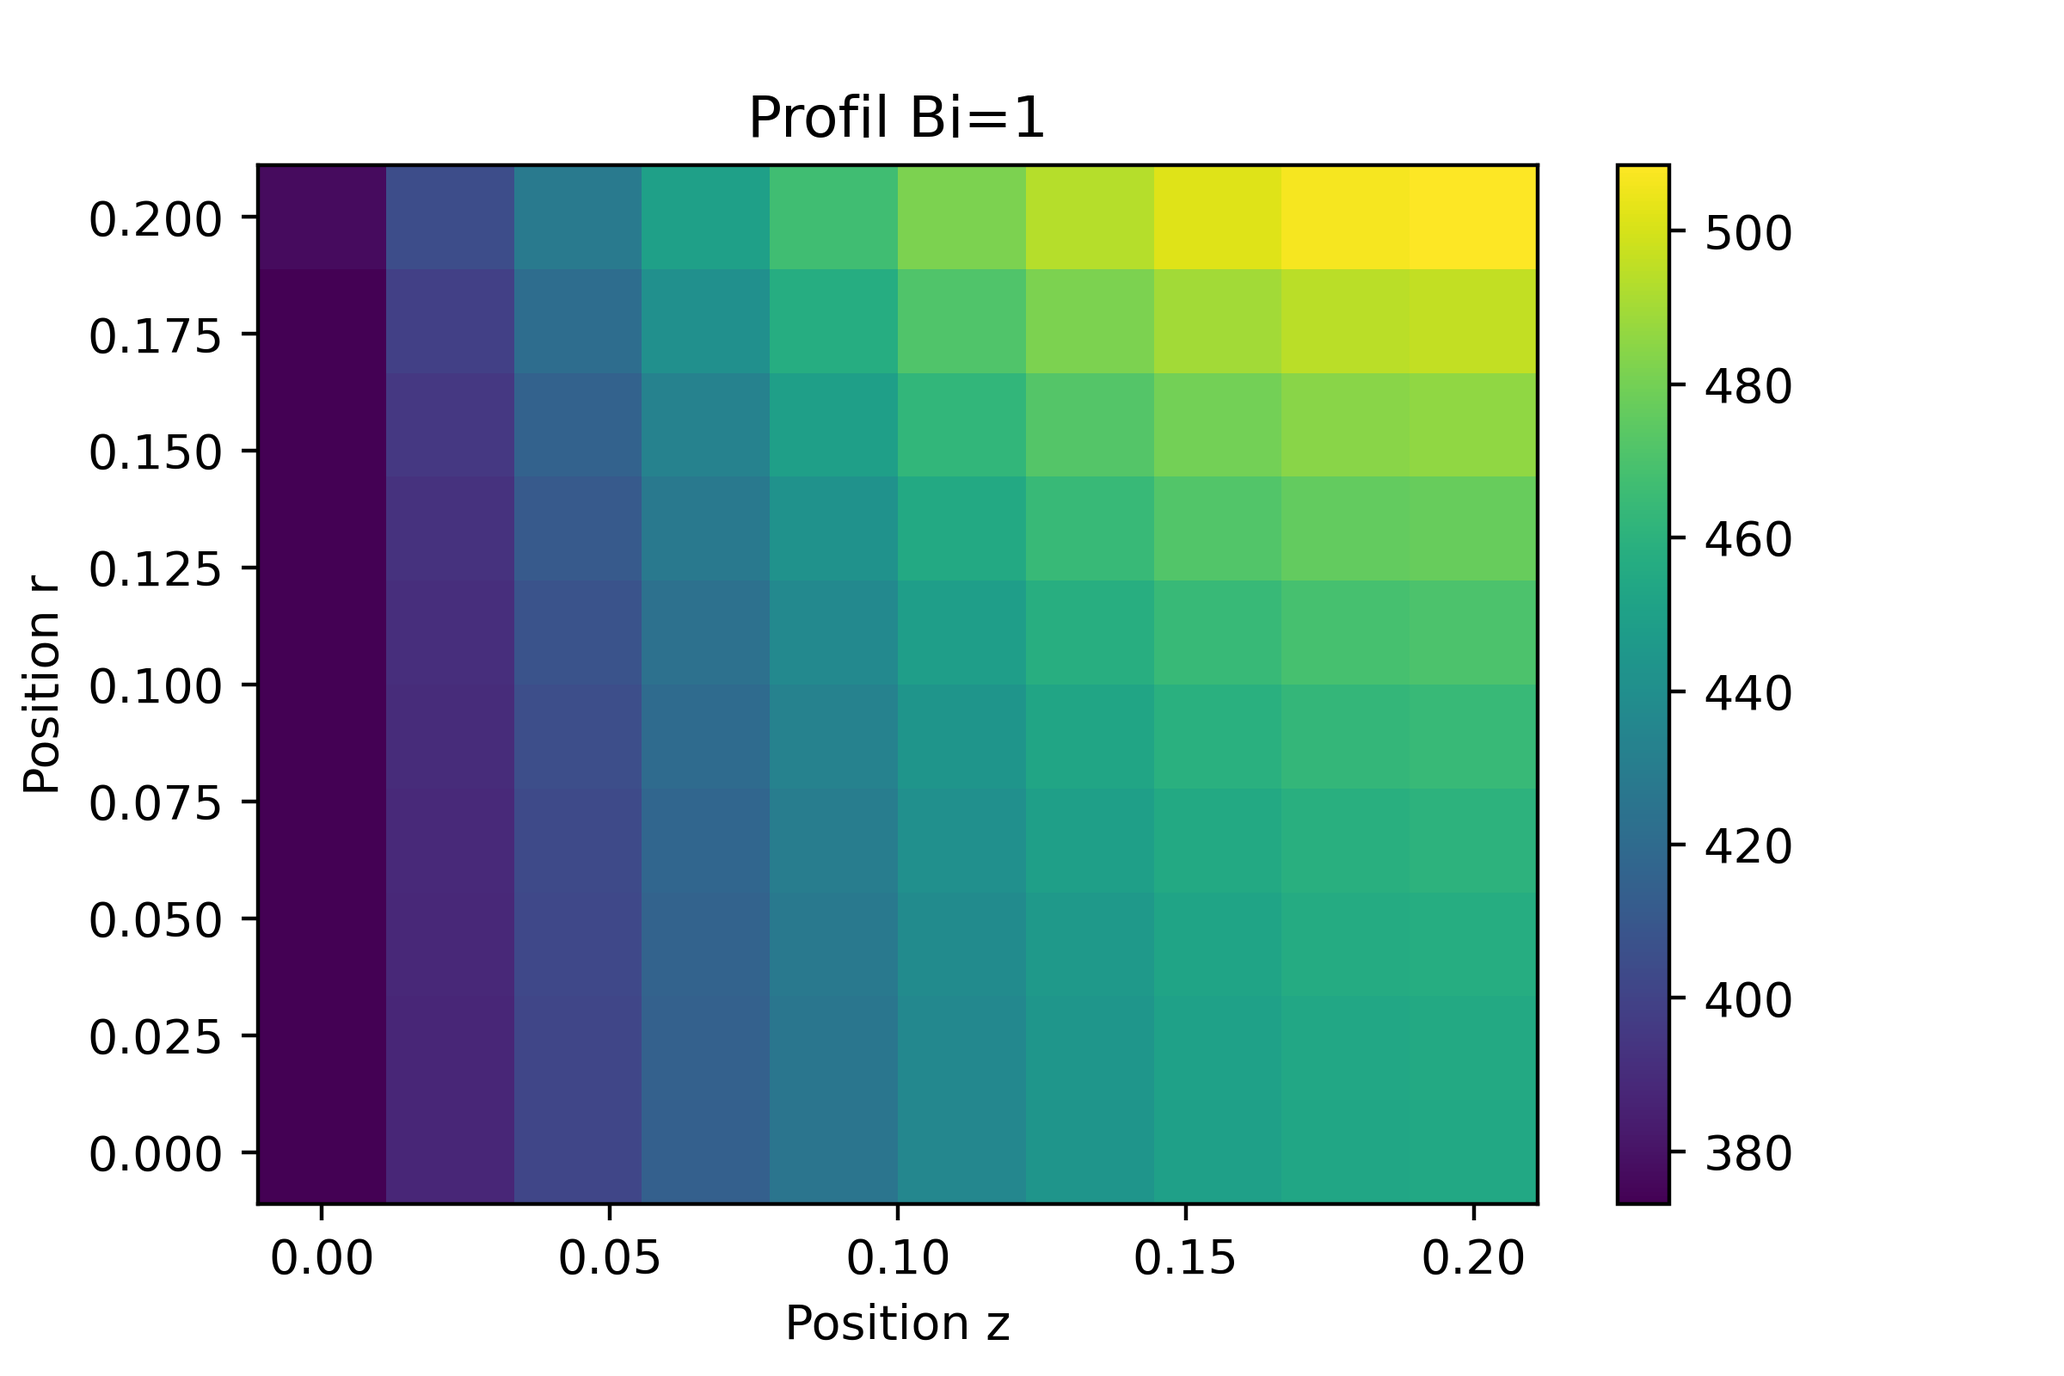
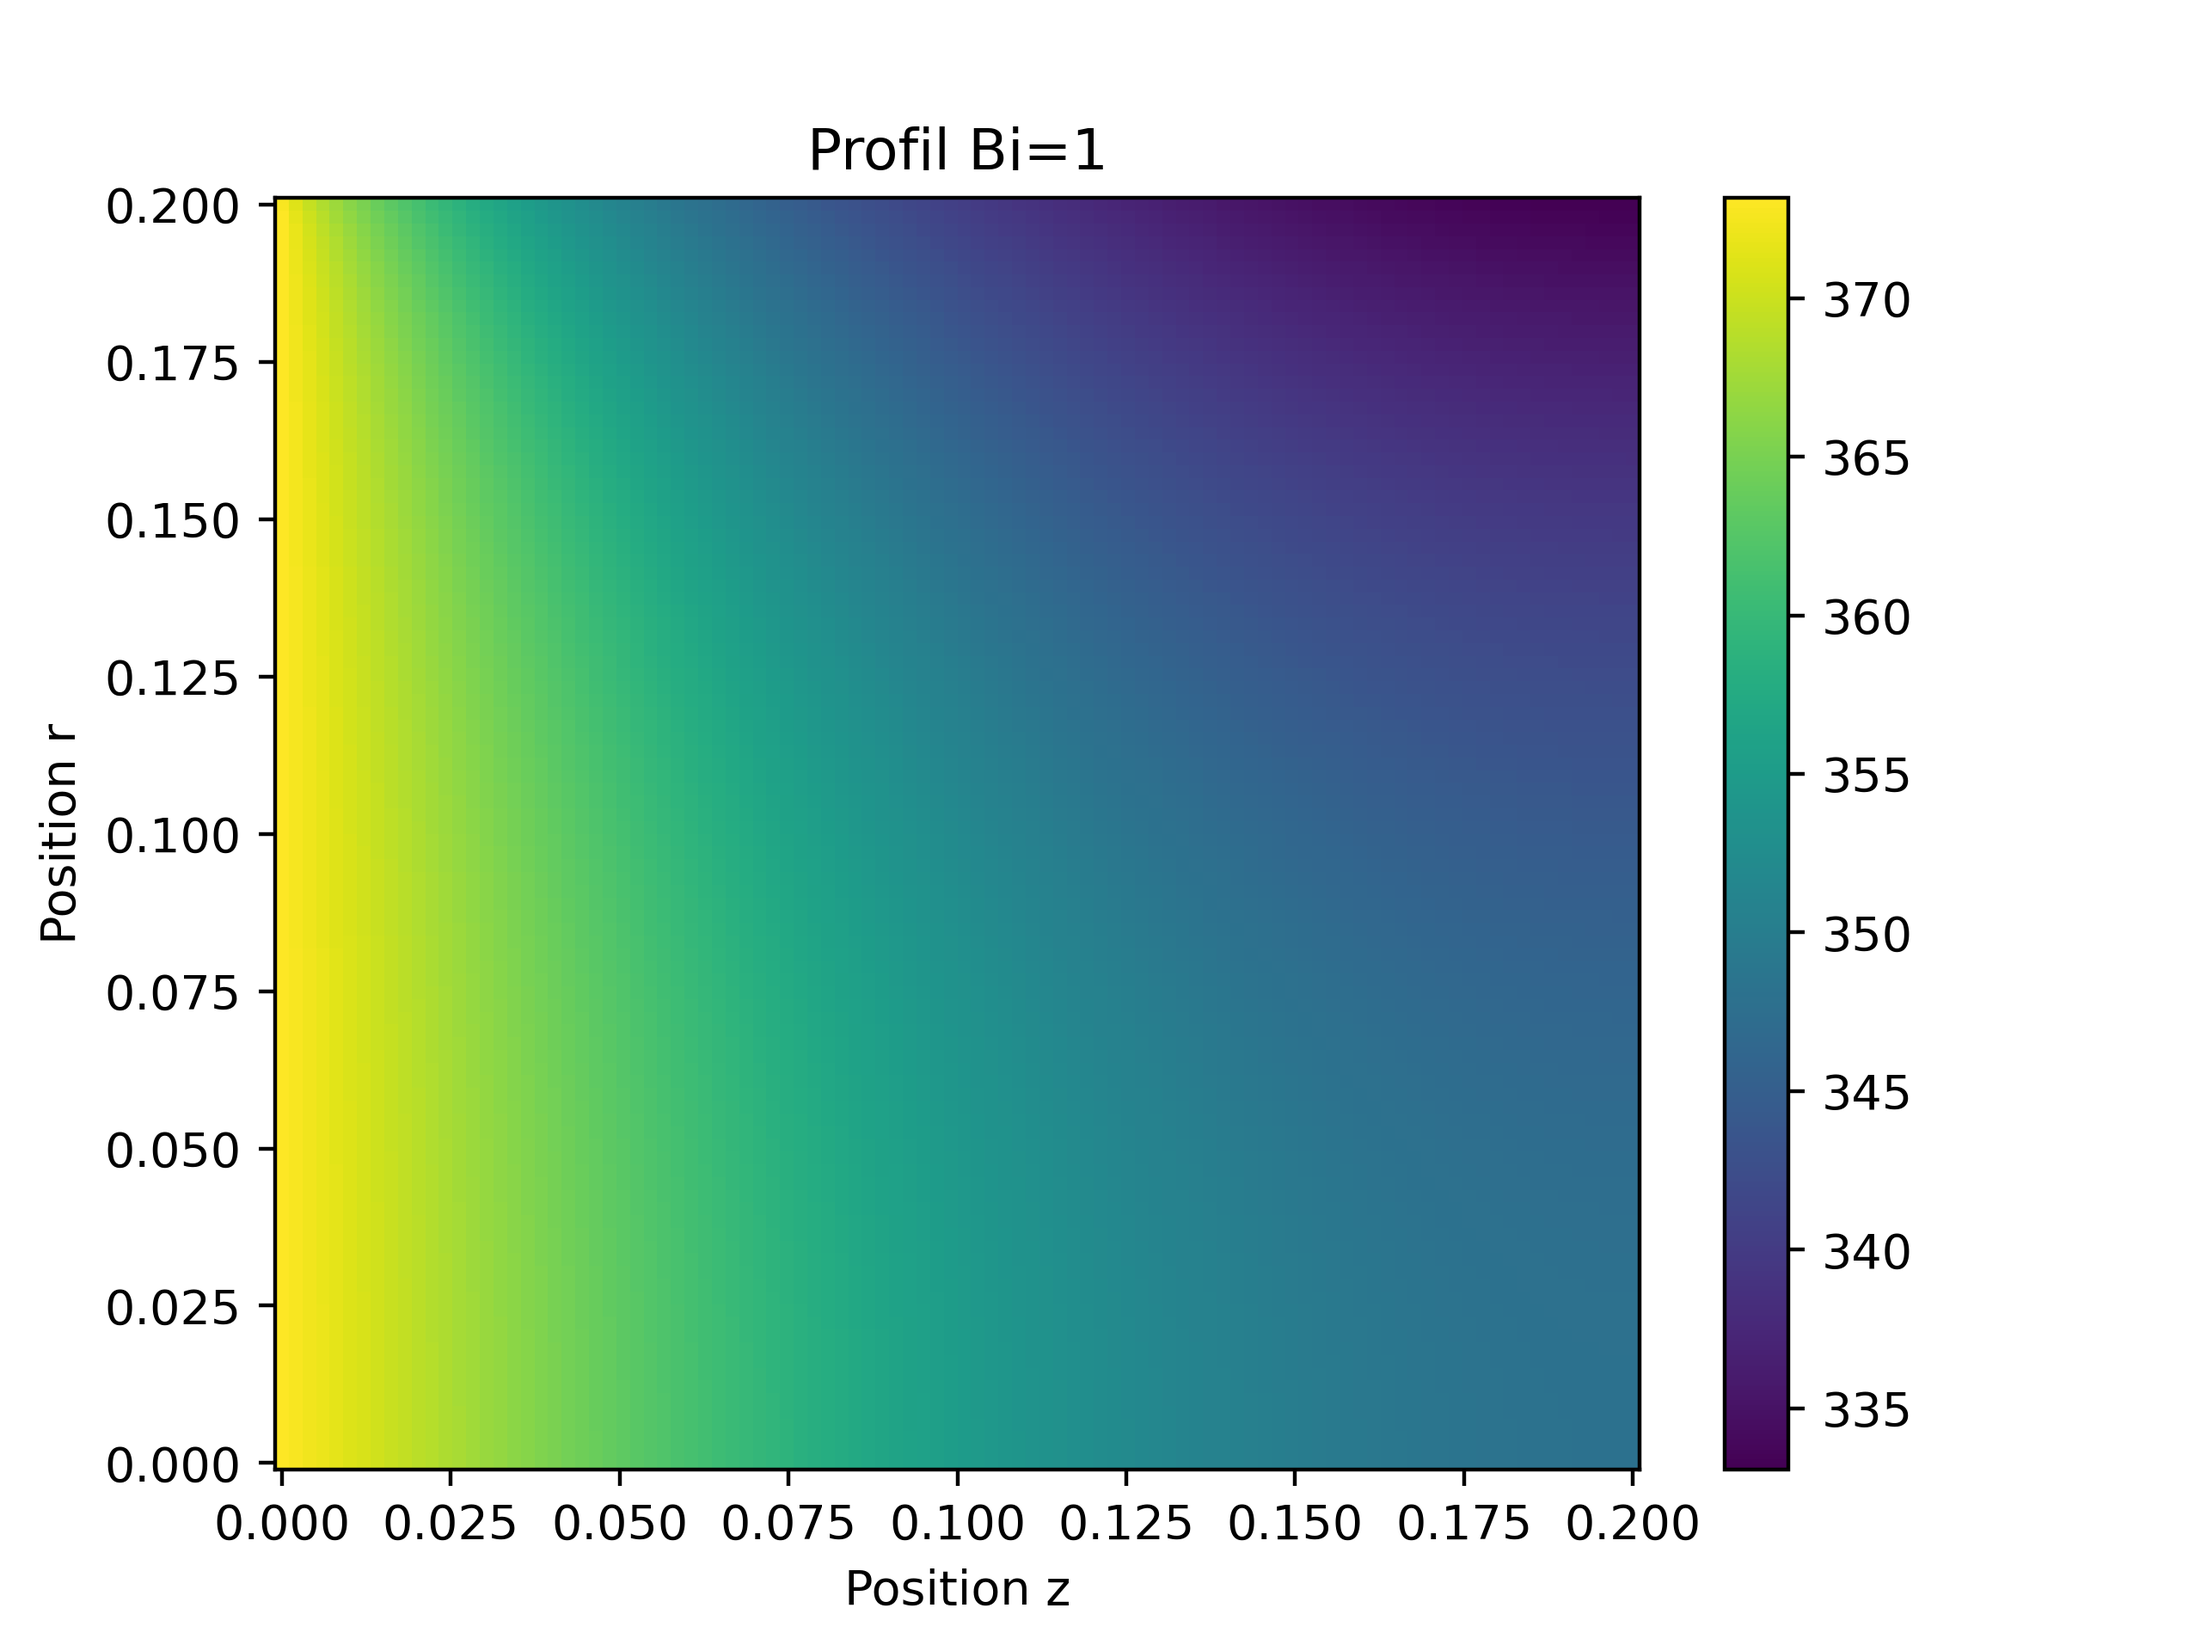
Code qui fonctionne

diff --git a/main.py b/main.py
@@ -44,8 +44,8 @@ x,y = position(X, Y, prm)
 z = np.linspace(0, prm.L, prm.nz)
 T = ref_analytique(z,prm)
 plt.plot(z, T, '--r', label="Profil analytique")
-#list_Bi = [0.1, 1, 10, 20, 100]
-list_Bi = [20]
+list_Bi = [0.1, 1, 10, 20, 100]
+#list_Bi = [20]
 
 for Bi_i in list_Bi:
     prm.setBi(Bi_i)
@@ -73,21 +73,23 @@ plt.show()
 # list_Bi = [0.1, 1, 10, 20, 100]
 # z = np.linspace(0, prm.L, prm.nz)
 
+# T = prm.T_w
+
 # q_contour_isole = inte_fluxContour(T,z,prm)
 # prm.setCL("convection")
 # q_contour_convection = inte_fluxContour(T,z,prm)
-#=========================Analyse Bonus=========================
-# list_Bi = [0.1, 1, 10, 20, 100]
-# for Bi_i in list_Bi:
-#     prm.setBi(Bi_i)
-#     A,b = mdf_assemblage(X,Y,prm)
-#     c = np.linalg.solve(A,b)
-#     c_reshaped = c.reshape(prm.nz,prm.nr).transpose()
-#     fig,ax = plt.subplots(nrows=1,ncols=1)
-#     fig1 = ax.pcolormesh(x,y, c_reshaped)
-#     plt.colorbar(fig1, ax=ax)
-#     ax.set_title("Profil Bi="+str(prm.Bi))
-#     ax.set_xlabel("Position z")
-#     ax.set_ylabel("Position r")
-#     plt.savefig("Profil2D_Bi"+str(prm.Bi)+".png", dpi=400)
-#     plt.show()
+# # =========================Analyse Bonus=========================
+list_Bi = [0.1, 1, 10, 20, 100]
+for Bi_i in list_Bi:
+    prm.setBi(Bi_i)
+    A,b = mdf_assemblage(X,Y,prm)
+    c = np.linalg.solve(A,b)
+    c_reshaped = c.reshape(prm.nz,prm.nr).transpose()
+    fig,ax = plt.subplots(nrows=1,ncols=1)
+    fig1 = ax.pcolormesh(x,y, c_reshaped)
+    plt.colorbar(fig1, ax=ax)
+    ax.set_title("Profil Bi="+str(prm.Bi))
+    ax.set_xlabel("Position z")
+    ax.set_ylabel("Position r")
+    plt.savefig("Profil2D_Bi"+str(prm.Bi)+".png", dpi=400)
+    plt.show()

diff --git a/profil 2.py b/profil 2.py
@@ -199,19 +199,21 @@ def mdf_assemblage(X,Y,prm):
         
         
         # k = i * nr + j
-        # A[k,k] = -3*k_cond/(2*dz)-h 
-        # A[k,k+1] = 4*k_cond/(2*dz)
+        # A[k,k] = -3*k/(2*dz)-h 
+        # A[k,k+1] = 4*k/(2*dz)
         # A[k,k+2] = -1/(2*dz)
         # b[k] = -T_inf*h
         
         # k = i * nr + j
+        
         # A[k,k] =  3*k_cond - 2*h*dr
         # A[k,k+1] = -4*k_cond
         # A[k,k+2] = k_cond
         # b[k] = -T_inf*h*dr*2
         
         k = i * nr + j
-        A[k,k] =  3 + 2*h*dr/k_cond
+        
+        A[k,k] =  3 - 2*h*dr
         A[k,k+1] = -4
         A[k,k+2] = 1
         b[k] = (-T_inf*h*2*dr)/(-k_cond)
